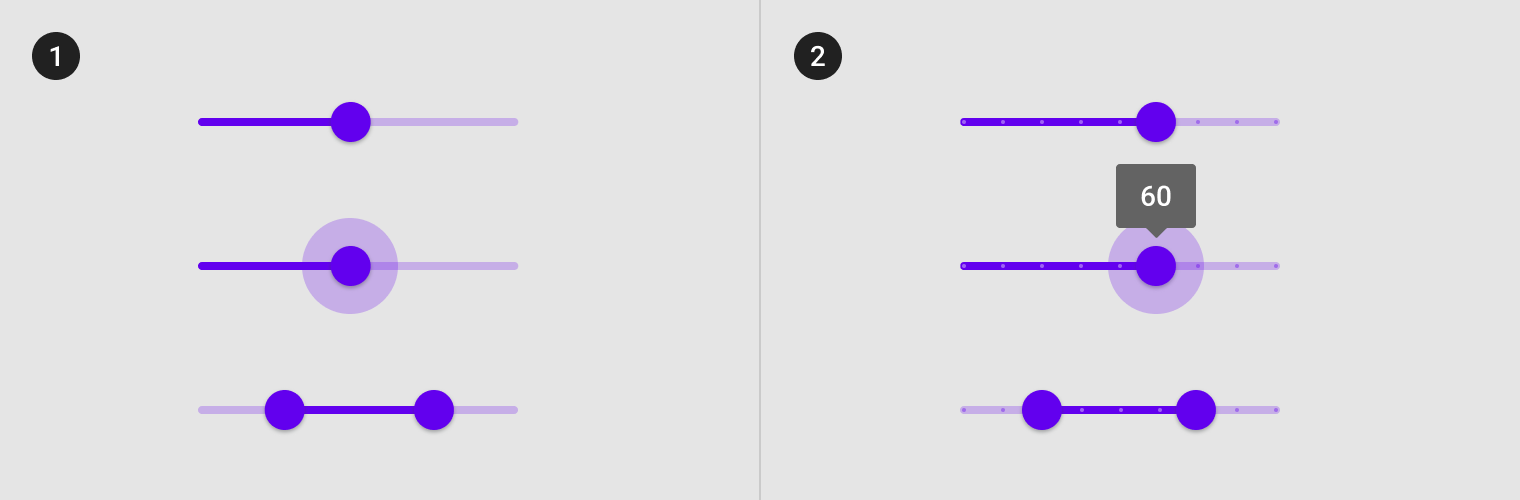
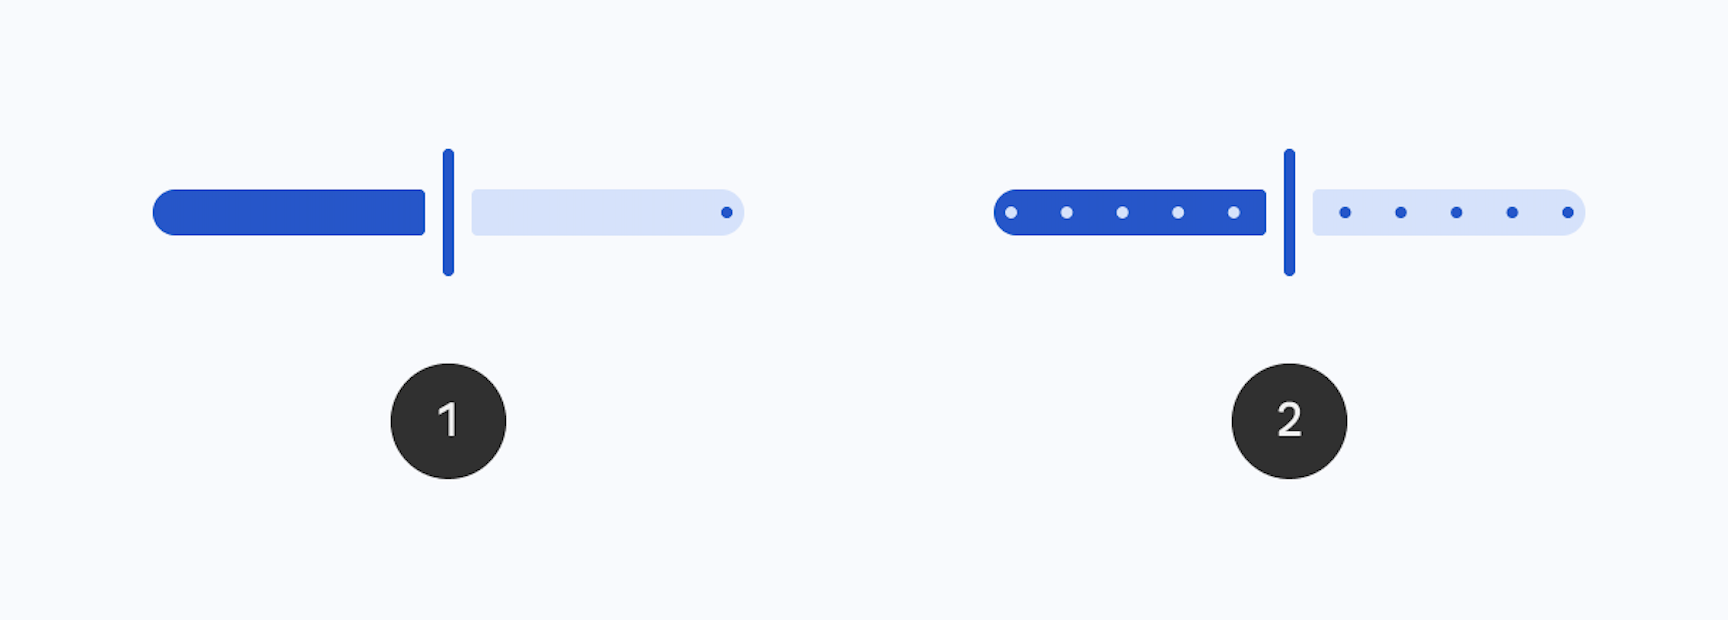
[NTC][Slider] Update documentation
PiperOrigin-RevId: 597297222

diff --git a/docs/components/Slider.md b/docs/components/Slider.md
@@ -12,7 +12,7 @@ path: /catalog/sliders/
 [Sliders](https://m3.material.io/components/sliders/) allow users to make
 selections from a range of values.
 
-!["Slider with sound icon buttons on each end."](assets/slider/slider_hero.png)
+!["Slider animation."](assets/slider/slider_hero.gif)
 
 **Contents**
 
@@ -36,7 +36,8 @@ page.
 
 ### Usage
 
-![2 single point sliders](assets/slider/slider_basic.png)
+![Continuous slider](assets/slider/slider_continuous.png){width="600"}
+![Discrete slider](assets/slider/slider_discrete.png){width="600"}
 
 Add a `Slider` to a layout:
 
@@ -79,7 +80,7 @@ API and source code:
     *   [Class definition](https://developer.android.com/reference/com/google/android/material/slider/Slider)
     *   [Class source](https://github.com/material-components/material-components-android/tree/master/lib/java/com/google/android/material/slider/Slider.java)
 
-![2 range sliders](assets/slider/slider_basic_range.png)
+![Range slider](assets/slider/slider_range.png)
 
 A slider with two thumbs is called a range slider.
 Add a `RangeSlider` to a layout:
@@ -182,8 +183,8 @@ indicate magnitude (e.g.: 1.5K, 3M, 12B). That can be achieved through the
 
 The following example shows a slider for a price range in USD currency.
 
-!["Range slider with range of $0 to $100. Left thumb is set at $20, right thumb
-at $70."](assets/slider/slider_price.png)
+!["Range slider with range of $0 to $10. Left thumb is set at $2, right thumb
+at $7."](assets/slider/slider_price.png){width="400"}
 
 In code:
 
@@ -210,7 +211,7 @@ a specific value.
 
 The following example shows a continuous slider.
 
-!["Continuous sliders with pressed thumb valued at 20."](assets/slider/slider_cont.png)
+!["Continuous slider."](assets/slider/slider_continuous.png)
 
 In the layout:
 
@@ -229,7 +230,7 @@ In the layout:
 
 The following example shows a continuous range slider.
 
-!["Continuous range slider with left thumb at 20 and right thumb at 70."](assets/slider/slider_cont_range.png)
+!["Continuous range slider."](assets/slider/slider_range.png)
 
 In the layout:
 
@@ -251,7 +252,7 @@ allows a user to input an exact value.
 
 The following example shows a discrete slider.
 
-!["Discrete single point slider with pressed thumb at a value of 20."](assets/slider/slider_disc.png)
+!["Discrete single point slider."](assets/slider/slider_discrete.png)
 
 In the layout:
 
@@ -265,7 +266,7 @@ In the layout:
 
 The following example shows a discrete range slider.
 
-!["Discrete range slider with left thumb at 20 and right thumb at 70."](assets/slider/slider_disc_range.png)
+!["Discrete range slider."](assets/slider/slider_discrete_range.png){width="400"}
 
 In the layout:
 
@@ -282,10 +283,12 @@ slider also has tick marks.
 
 ![Slider anatomy diagram](assets/slider/slider_anatomy.png)
 
-1.  Track
-2.  Thumb
-3.  Value label (optional)
-4.  Tick mark (discrete sliders)
+1.  Value label (optional)
+2.  Active track stop indicator
+3.  Active track
+4.  Thumb
+5.  Inactive track
+6.  Inactive track stop indicator
 
 #### Track attributes
 
@@ -296,7 +299,7 @@ slider also has tick marks.
 | **Step size (discrete)**                   | `android:stepSize`           | `setStepSize`<br/>`getStepSize`                             | N/A                                  |
 | **Initial selected value (Slider)**        | `android:value`              | `setValue`<br/>`getValue`                                   | N/A                                  |
 | **Initial selected values (RangeSlider)**  | `app:values`                 | `setValues`<br/>`getValues`                                 | N/A                                  |
-| **Height**                                 | `app:trackHeight`            | `setTrackHeight`<br/>`getTrackHeight`                       | `4dp`                                |
+| **Height**                                 | `app:trackHeight`            | `setTrackHeight`<br/>`getTrackHeight`                       | `16dp`                               |
 | **Color**                                  | `app:trackColor`             | `setTrackTintList`<br/>`getTrackTintList`                   | `null`                               |
 | **Color for track's active part**          | `app:trackColorActive`       | `setTrackActiveTintList`<br/>`getTrackActiveTintList`       | `?attr/colorPrimary`                 |
 | **Color for track's inactive part**        | `app:trackColorInactive`     | `setTrackInactiveTintList`<br/>`getTrackInactiveTintList`   | `?attr/colorSurfaceContainerHighest` |
@@ -310,18 +313,18 @@ thing.
 
 #### Thumb attributes
 
-| Element          | Attribute               | Related method(s)                                                                 | Default value               |
-|------------------|-------------------------|-----------------------------------------------------------------------------------|-----------------------------|
-| **Color**        | `app:thumbColor`        | `setThumbTintList`<br/>`getThumbTintList`                                         | `?attr/colorPrimary`        |
-| **Width**        | `app:thumbWidth`        | `setThumbWidth`<br/>`setThumbWidthResource`<br/>`getThumbWidth`                   | `4dp`                       |
-| **Height**       | `app:thumbHeight`       | `setThumbHeight`<br/>`setThumbHeightResource`<br/>`getThumbHeight`                | `44dp`                      |
-| **Radius**       | `app:thumbRadius`       | `setThumbRadiusResource`<br/>`setThumbRadius`<br/>`getThumbRadius`                | `10dp`                      |
-| **Elevation**    | `app:thumbElevation`    | `setThumbElevationResource`<br/>`setThumbElevation`<br/>`getThumbElevation`       | `2dp`                       |
-| **Halo color**   | `app:haloColor`         | `setHaloTintList`<br/>`getHaloTintList`                                           | `?attr/colorPrimary` at 24% |
-| **Halo radius**  | `app:haloRadius`        | `setHaloRadiusResource`<br/>`setHaloRadius`<br/>`getHaloRadius`                   | `24dp`                      |
-| **Stroke color** | `app:thumbStrokeColor`  | `setThumbStrokeColor`<br/>`setThumbStrokeColorResource`<br/>`getThumbStrokeColor` | `null`                      |
-| **Stroke width** | `app:thumbStrokeWidth`  | `setThumbStrokeWidth`<br/>`setThumbStrokeWidthResource`<br/>`getThumbStrokeWidth` | `0dp`                       |
-| **Gap size**     | `app:thumbTrackGapSize` | `setThumbTrackGapSize`<br/>`getThumbTrackGapSize`                                 | `6dp`                       |
+| Element          | Attribute               | Related method(s)                                                                 | Default value                |
+|------------------|-------------------------|-----------------------------------------------------------------------------------|------------------------------|
+| **Color**        | `app:thumbColor`        | `setThumbTintList`<br/>`getThumbTintList`                                         | `?attr/colorPrimary`         |
+| **Width**        | `app:thumbWidth`        | `setThumbWidth`<br/>`setThumbWidthResource`<br/>`getThumbWidth`                   | `4dp`                        |
+| **Height**       | `app:thumbHeight`       | `setThumbHeight`<br/>`setThumbHeightResource`<br/>`getThumbHeight`                | `44dp`                       |
+| **Radius**       | `app:thumbRadius`       | `setThumbRadiusResource`<br/>`setThumbRadius`<br/>`getThumbRadius`                | N/A                          |
+| **Elevation**    | `app:thumbElevation`    | `setThumbElevationResource`<br/>`setThumbElevation`<br/>`getThumbElevation`       | `2dp`                        |
+| **Halo color**   | `app:haloColor`         | `setHaloTintList`<br/>`getHaloTintList`                                           | `@android:color/transparent` |
+| **Halo radius**  | `app:haloRadius`        | `setHaloRadiusResource`<br/>`setHaloRadius`<br/>`getHaloRadius`                   | N/A                          |
+| **Stroke color** | `app:thumbStrokeColor`  | `setThumbStrokeColor`<br/>`setThumbStrokeColorResource`<br/>`getThumbStrokeColor` | `null`                       |
+| **Stroke width** | `app:thumbStrokeWidth`  | `setThumbStrokeWidth`<br/>`setThumbStrokeWidthResource`<br/>`getThumbStrokeWidth` | `0dp`                        |
+| **Gap size**     | `app:thumbTrackGapSize` | `setThumbTrackGapSize`<br/>`getThumbTrackGapSize`                                 | `6dp`                        |
 
 **Note:** `app:thumbWidth` and `app:thumbHeight` take precedence over `app:thumbRadius`.
 
@@ -338,14 +341,14 @@ Element       | Attribute           | Related method(s)                         
 
 #### Tick mark attributes
 
-Element                             | Attribute                | Related method(s)                                       | Default value
------------------------------------ | ------------------------ | ------------------------------------------------------- | -------------
-**Color**                           | `app:tickColor`          | `setTickTintList`<br/>`getTickTintList`                 | `null`
-**Color for tick's active part**    | `app:tickColorActive`    | `setTickActiveTintList`<br/>`getTickActiveTintList`     | `?attr/colorSurfaceVariant`
-**Color for tick's inactive part**  | `app:tickColorInactive`  | `setTickInactiveTintList`<br/>`getTickInactiveTintList` | `?attr/colorPrimary`
-**Radius for tick's active part**   | `app:tickRadiusActive`   | `setTickActiveRadius`<br/>`getTickActiveRadius`         | `1dp`
-**Radius for tick's inactive part** | `app:tickRadiusInactive` | `setTickInactiveRadius`<br/>`getTickInactiveRadius`     | `1dp`
-**Tick visible**                    | `app:tickVisible`        | `setTickVisible`<br/>`isTickVisible()`                  | `true`
+| Element                             | Attribute                | Related method(s)                                       | Default value                        |
+|-------------------------------------|--------------------------|---------------------------------------------------------|--------------------------------------|
+| **Color**                           | `app:tickColor`          | `setTickTintList`<br/>`getTickTintList`                 | `null`                               |
+| **Color for tick's active part**    | `app:tickColorActive`    | `setTickActiveTintList`<br/>`getTickActiveTintList`     | `?attr/colorSurfaceContainerHighest` |
+| **Color for tick's inactive part**  | `app:tickColorInactive`  | `setTickInactiveTintList`<br/>`getTickInactiveTintList` | `?attr/colorPrimary`                 |
+| **Radius for tick's active part**   | `app:tickRadiusActive`   | `setTickActiveRadius`<br/>`getTickActiveRadius`         | `1dp`                                |
+| **Radius for tick's inactive part** | `app:tickRadiusInactive` | `setTickInactiveRadius`<br/>`getTickInactiveRadius`     | `1dp`                                |
+| **Tick visible**                    | `app:tickVisible`        | `setTickVisible`<br/>`isTickVisible()`                  | `true`                               |
 
 **Note:** `app:tickColor` takes precedence over `app:tickColorActive` and
 `app:tickColorInative`. It's a shorthand for setting both values to the same
@@ -363,6 +366,23 @@ See the full list of
 [styles](https://github.com/material-components/material-components-android/tree/master/lib/java/com/google/android/material/slider/res/values/styles.xml)
 and
 [attributes](https://github.com/material-components/material-components-android/tree/master/lib/java/com/google/android/material/slider/res/values/attrs.xml).
+
+#### Non-Text Contrast update
+
+In order to comply with the latest accessibility requirements, the
+`Slider` has been updated with additional attributes:
+
+- `app:thumbTrackGapSize`: size of the gap between the thumb and the
+  track, 6dp by default.
+- `app:trackInsideCornerSize`: size of the corners towards the thumb when a gap
+  is present, 2dp by default.
+- `app:trackStopIndicatorSize`: size of the stop at the start/end of the track,
+  4dp by default.
+
+`*.Legacy` styles have been added to revert to the previous behavior (**not
+recommended**):
+
+- `Widget.Material3.Slider.Legacy`
 
 ## Theming sliders
 
@@ -408,7 +428,7 @@ all sliders but does not affect other components:
     <item name="sliderStyle">@style/Widget.App.Slider</item>
 </style>
 
-<style name="Widget.App.Slider" parent="Widget.Material3.Slider">
+<style name="Widget.App.Slider" parent="Widget.Material3.Slider.Legacy">
     <item name="materialThemeOverlay">@style/ThemeOverlay.App.Slider</item>
     <item name="labelStyle">@style/Widget.App.Tooltip</item>
   </style>
